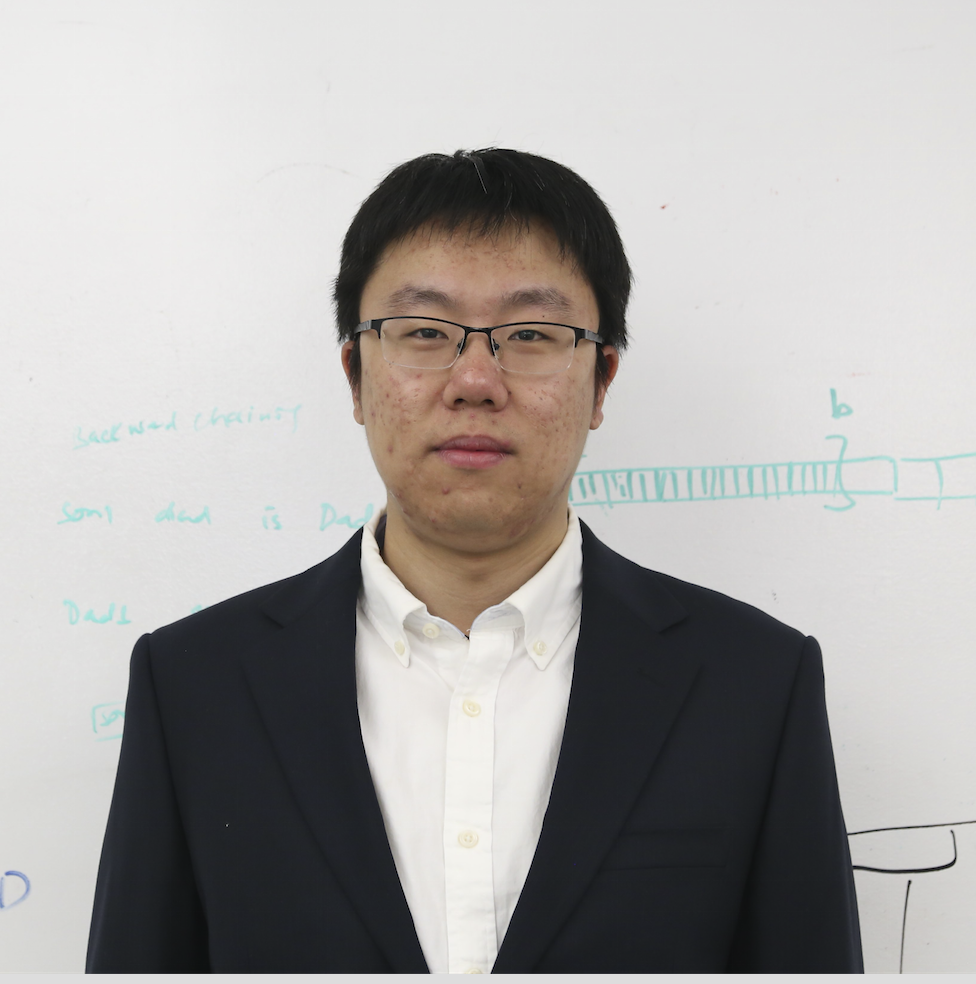
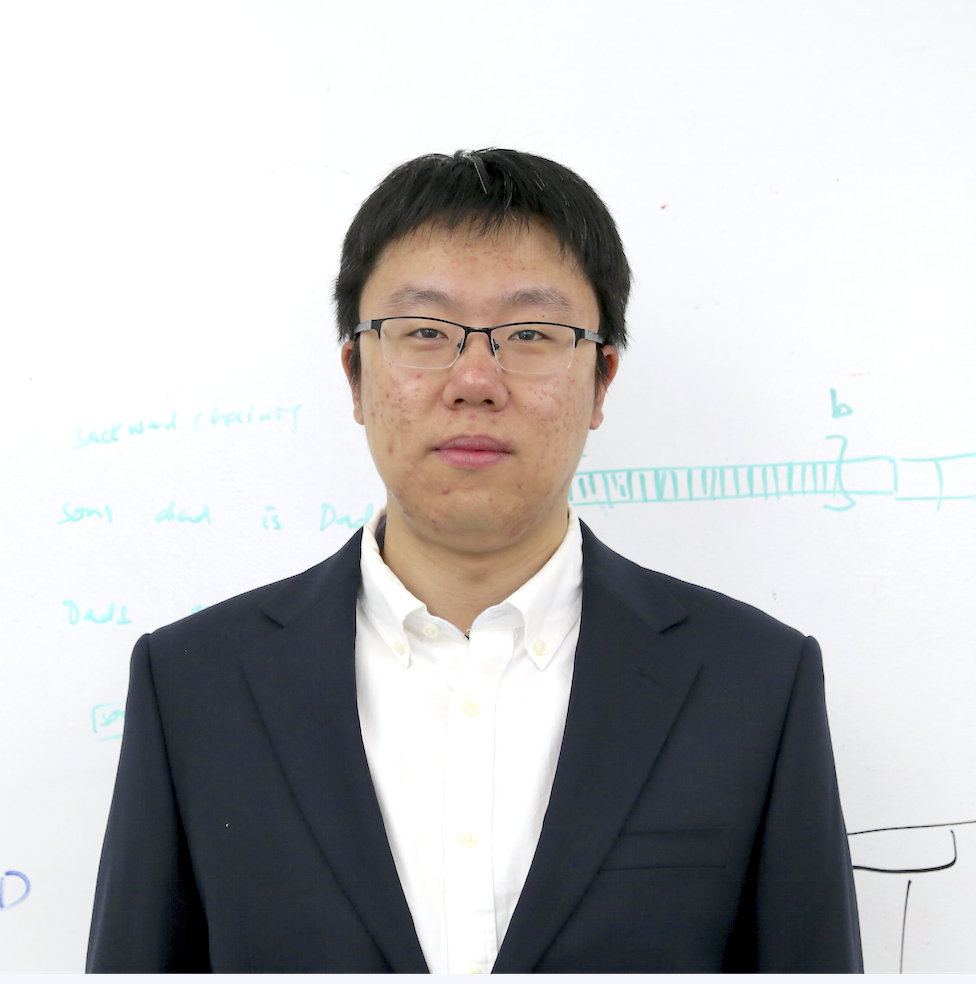
update photo & add news

diff --git a/index.md b/index.md
@@ -16,9 +16,11 @@ My research interests are mainly in graph analytics for high performance computi
 
 ## News
 
-June, 2020: Started to work as a senior intern at Kryptowire Lead by Prof. Angelos Stavrou from Virginia Tech.
+*June, 2020*: Start working as a senior intern at Kryptowire Lead by Prof. Angelos Stavrou from Virginia Tech.
 
+*May, 2020*: RAID 2020
 
+*March, 2020*: HPDC 2020
 
 
 
